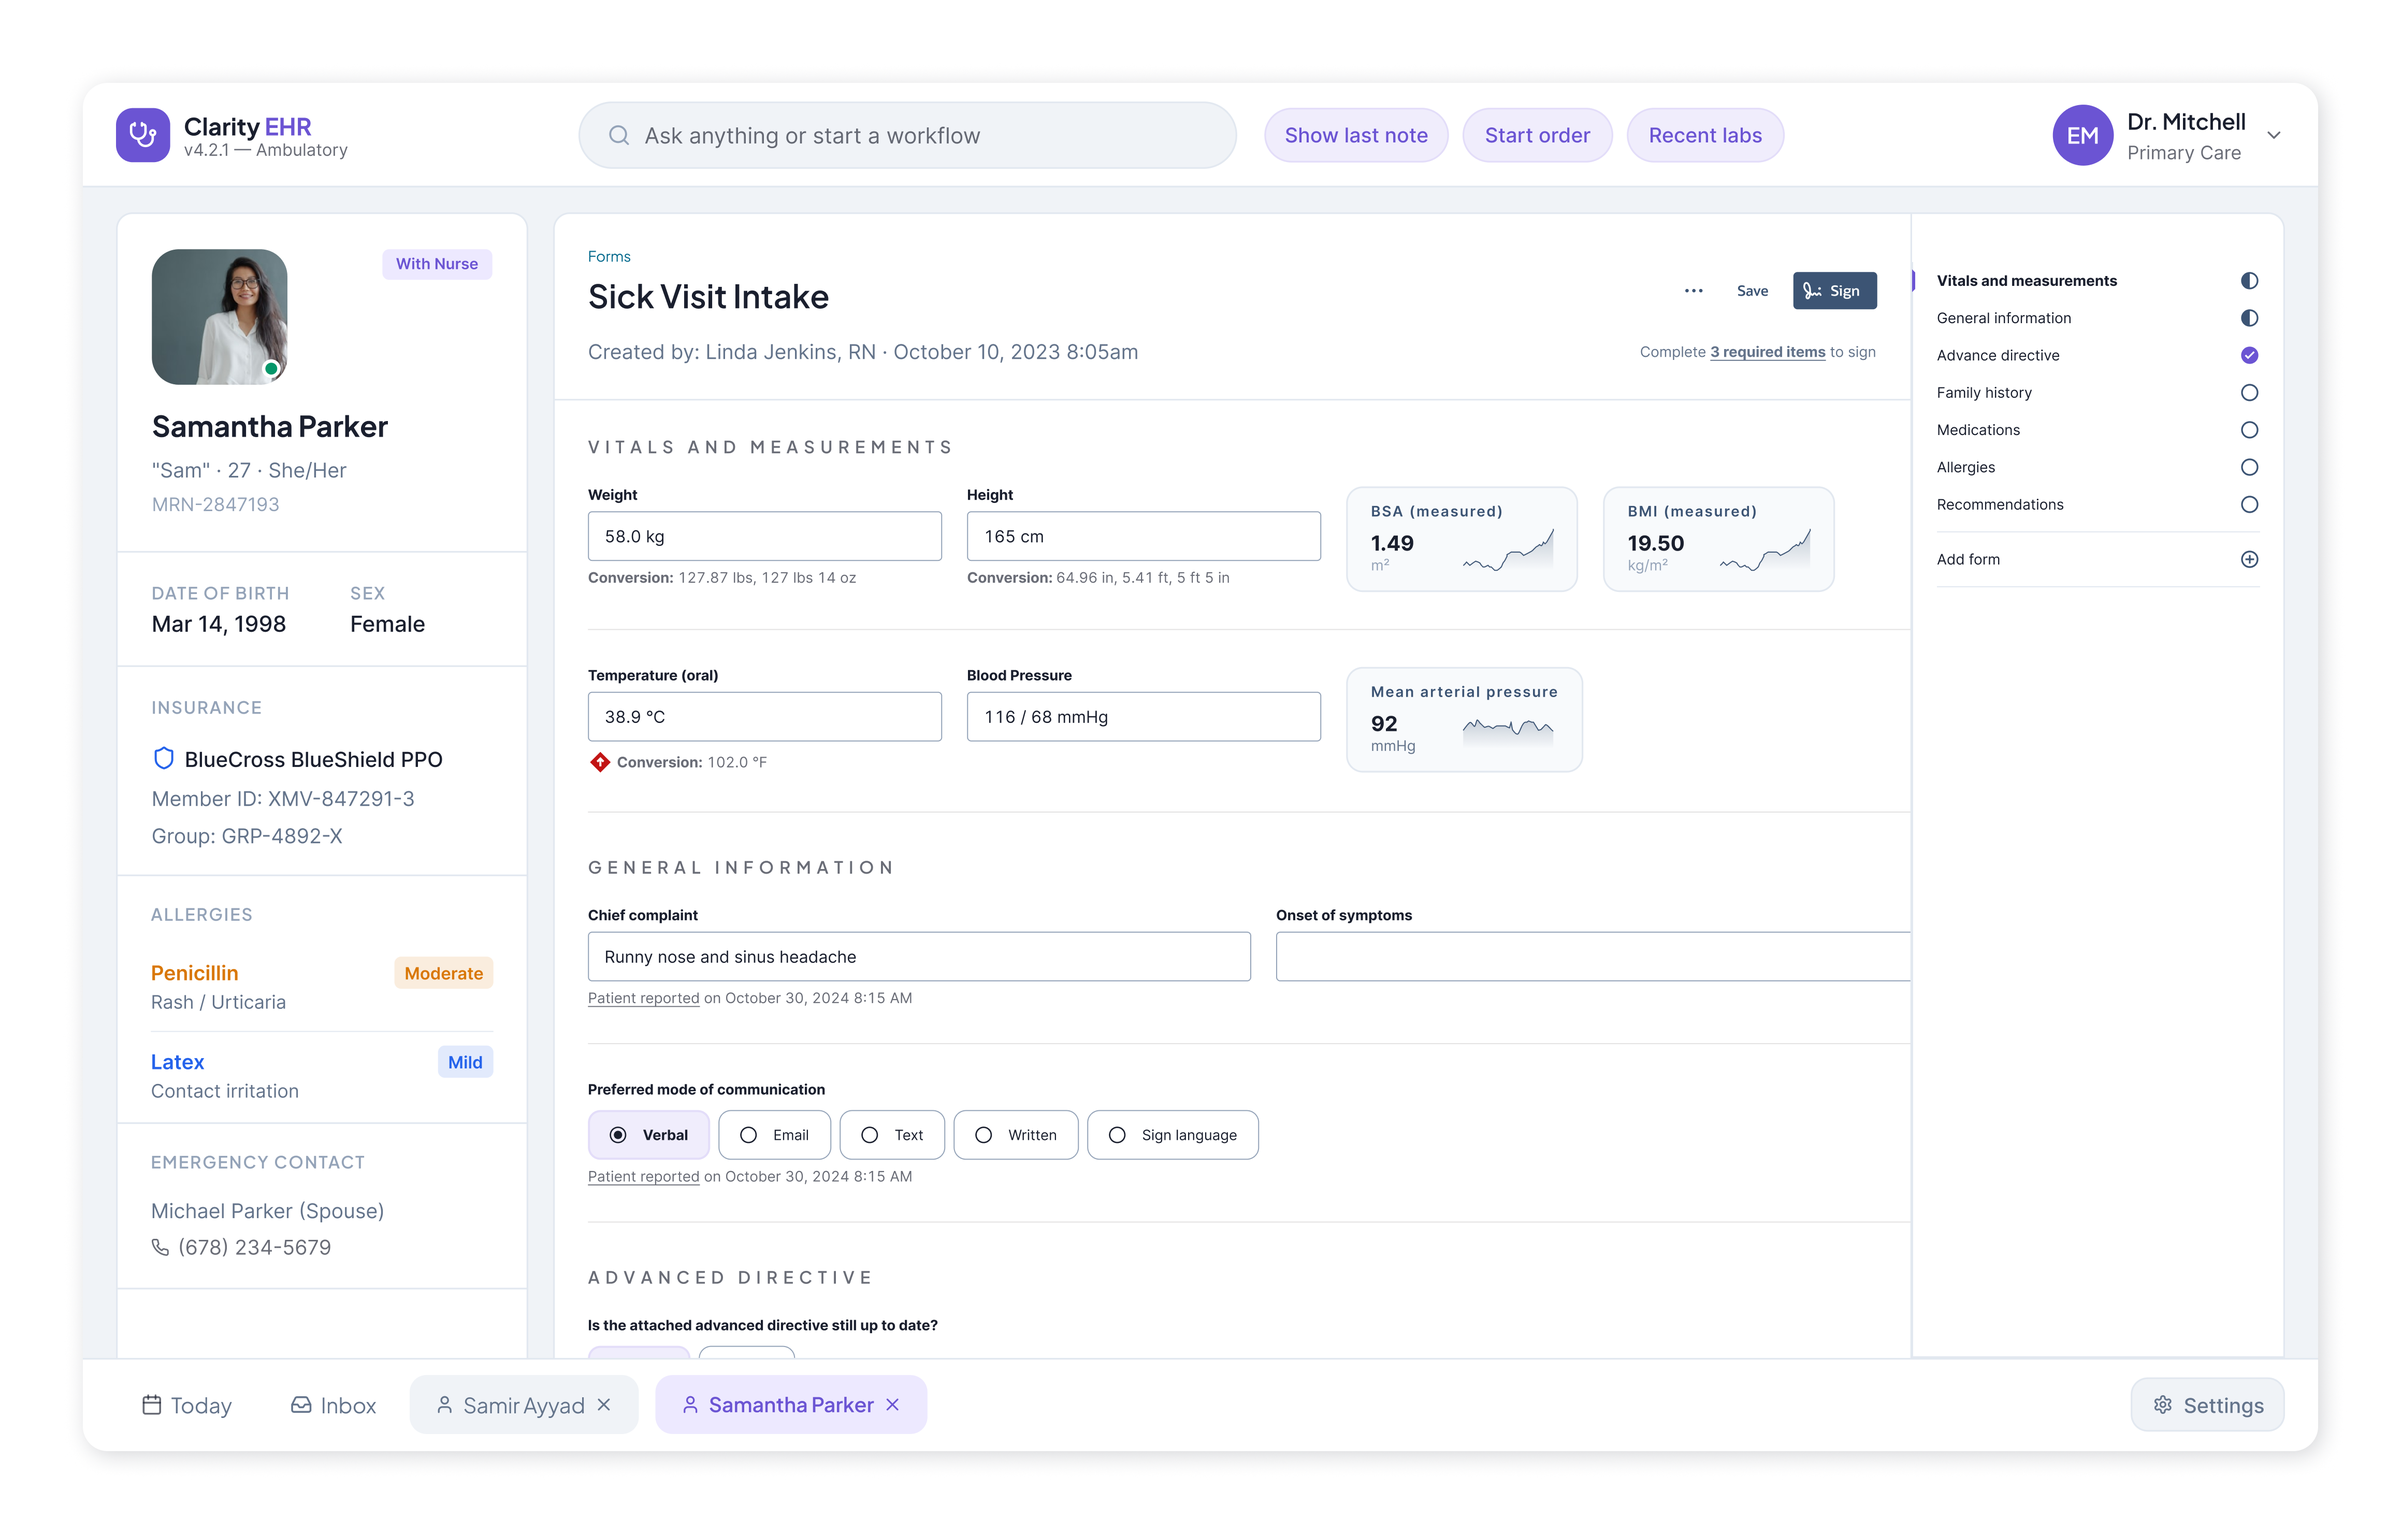
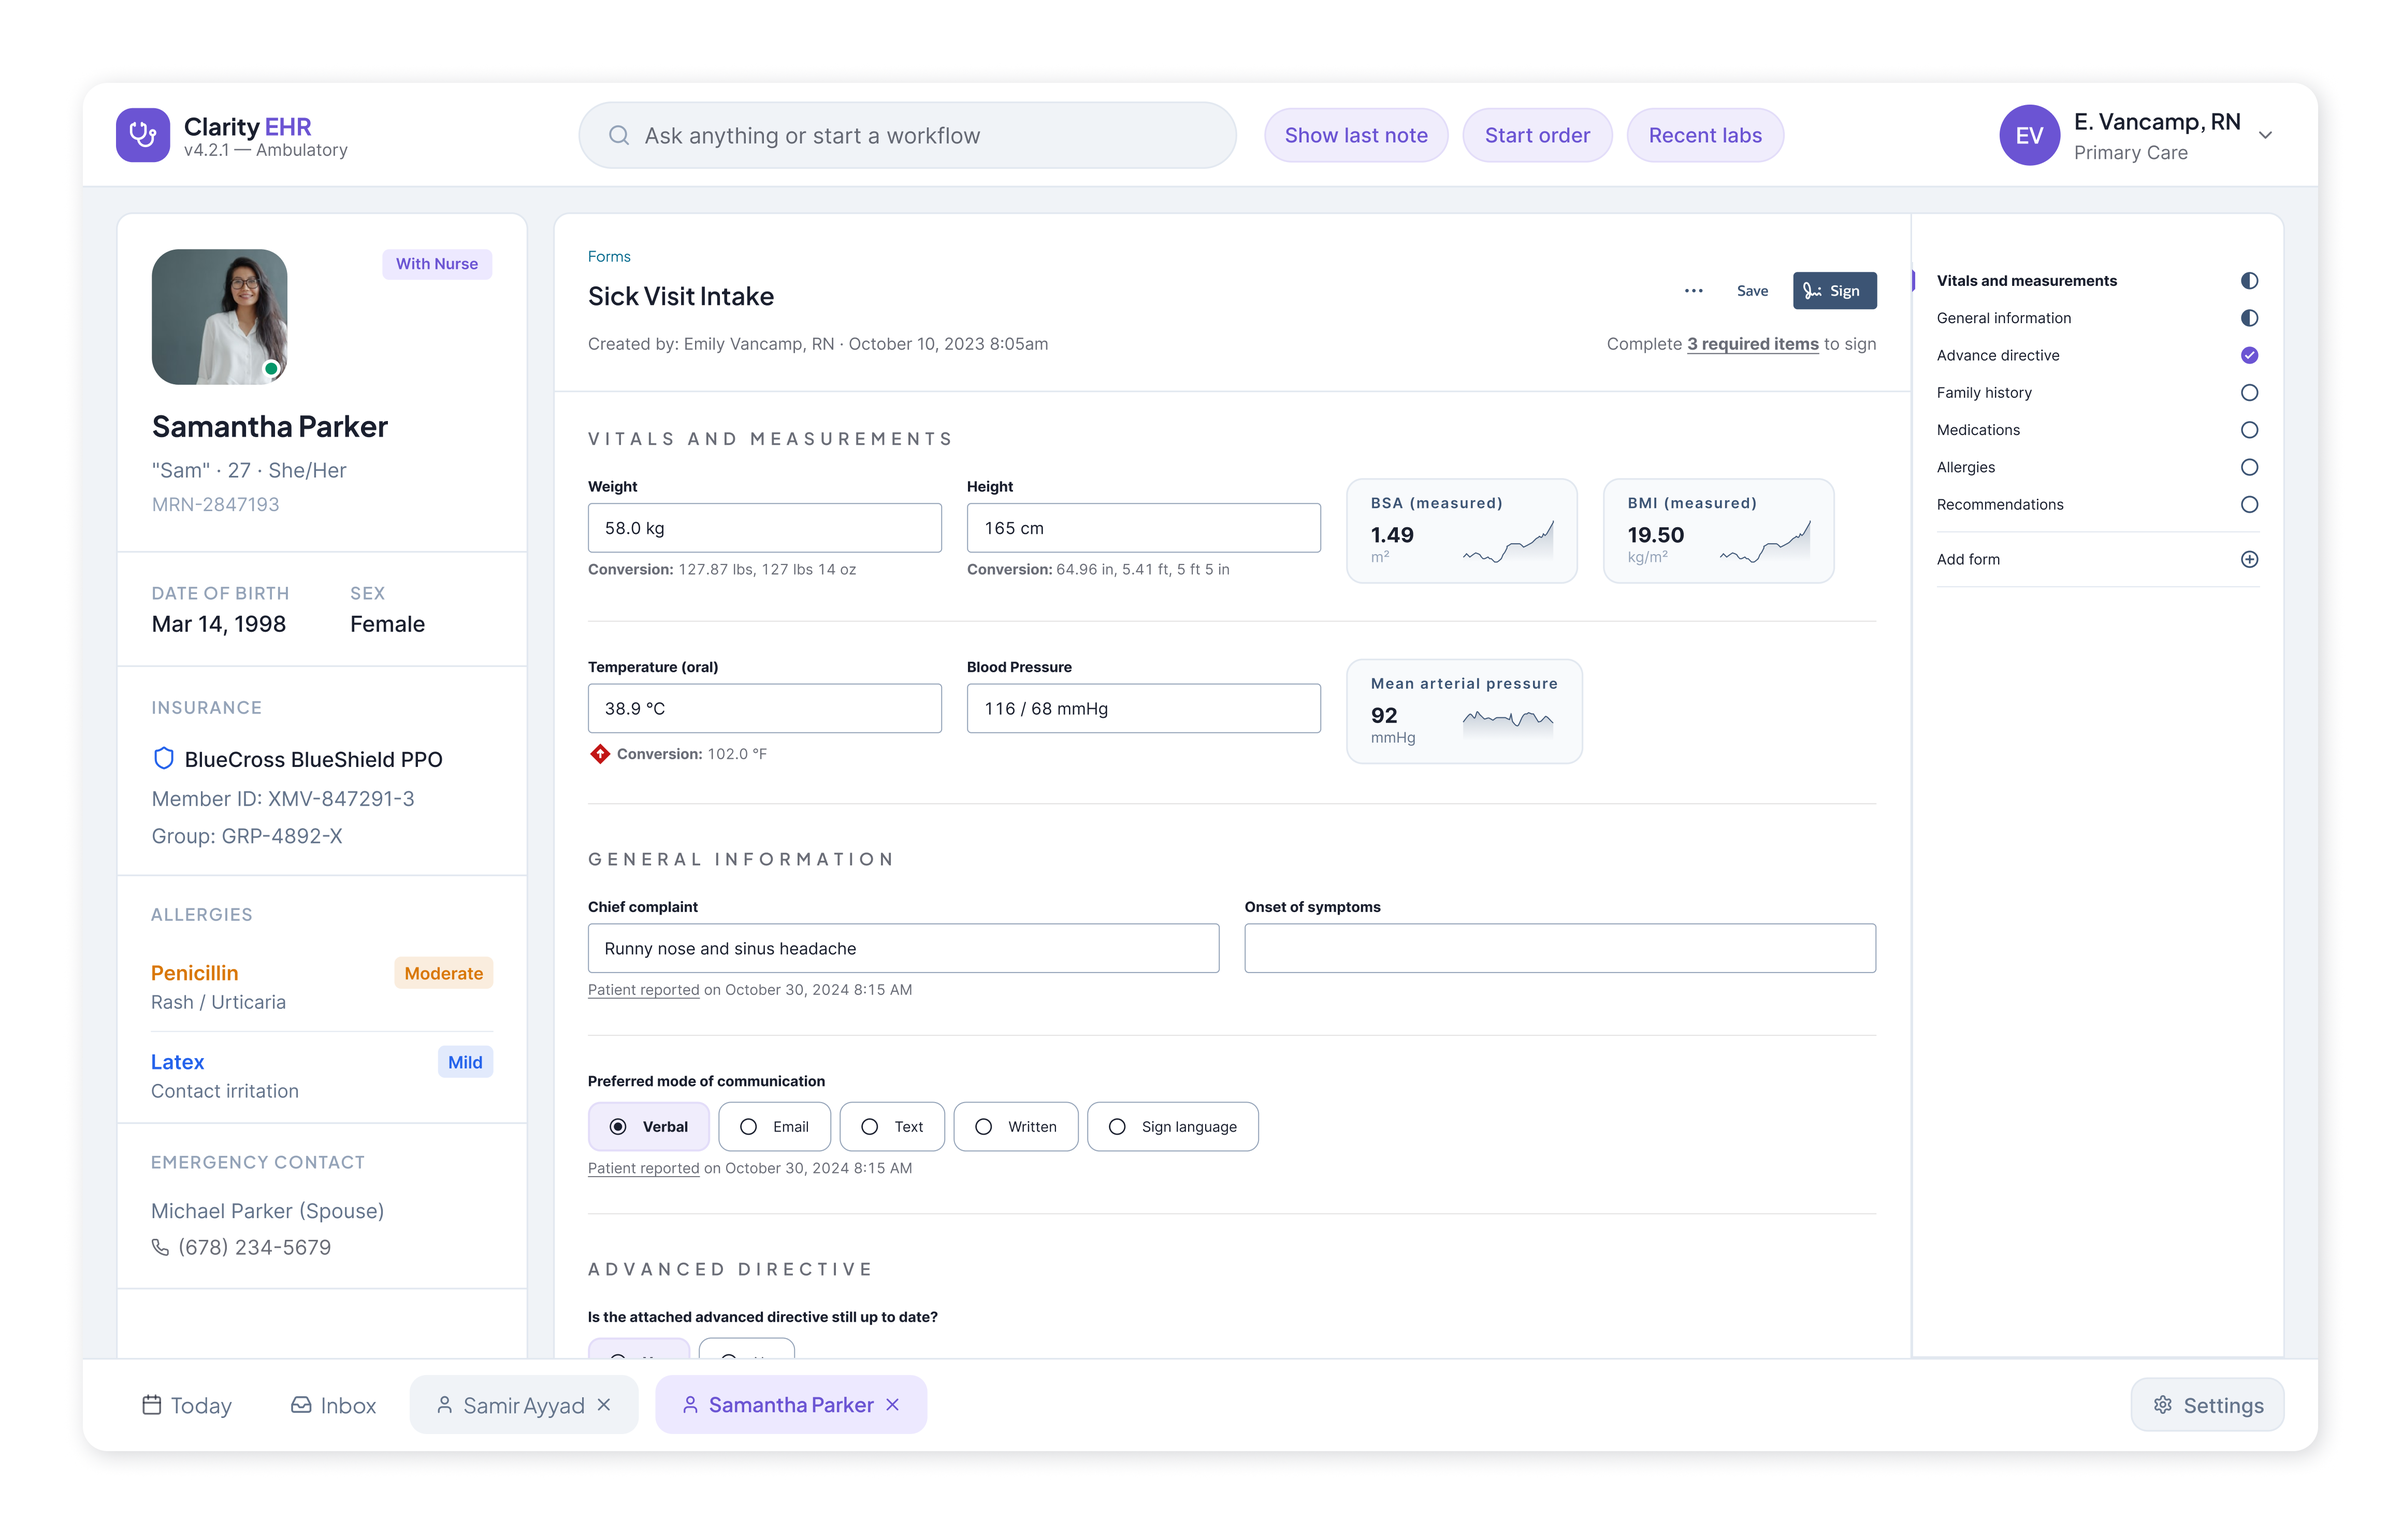
Add some images

diff --git a/oracleclinical.html b/oracleclinical.html
@@ -113,17 +113,9 @@
       <h3>04 Raising Quality Bar</h3>
       <p>Another learning from my physician partner is that since the transition to electronic health records, physician notes have gotten <b>worse,</b> not better.  For repeat visits or long-term treatments, it became common practice to duplicate the old note and write more on top. EHR notes have grown 60% longer and 11% more redundant over the last few years. <a hred="https://www.techtarget.com/searchhealthit/news/366579094/Growing-Length-of-EHR-Clinical-Notes-Raises-Clinician-Burnout-Concerns">[3]</a></p>
       <h4> I saw an opportunity to improve the quality of note outcomes, not just the experience of making them, by integrating Oracle’s biggest differentiator - our AI capabilities.</h4>
-      <p>
-      </p>
       <img src="clinical/multimodal.png" alt="Diagram of the different modalities of note-writing">
-
-        <div class="keebr-columns">
-          <div clas="pcol"> <h4>Allowing doctors to securely sign it into record with one click.</h4> </div>
-          <div class="pcol"> <img src="clinical/sign.gif" style="border-radius:8px; box-shadow: 1px 1px 6px #D2D2DE;
-"></div>
-        </div>
-
-
+      <h4>Allowing doctors to securely sign it into record with one click.</h4>
+      <img src="clinical/sign.gif" style="border-radius:8px; box-shadow: 1px 1px 6px #D2D2DE;">
     </div>
 
     <div class="spacer"></div>
@@ -138,7 +130,7 @@
           <div clas="pcol"> <h4> A sequential wizard experience for queueing up form sets, and quick keyboard macros for entry and navigation. </h4> </div>
         </div>
         <div class="keebr-columns">
-          <div class="pcol"> <h4> Fill redundant fields and uptake the patient's last answer automatically to remove repetitive entry. </h4> </div>
+          <div class="pcol"> <h4> Fill redundant fields and intelligently uptake the patient's last answer, to remove repetitive entry. </h4> </div>
           <div class="pcol"> <img src="clinical/prefill.png"></div>
         </div>
         <div class="keebl-columns">
@@ -168,11 +160,44 @@
     </div>
 
     <div class="divider"></div>
+    
     <footer class="footer reveal">
+
       <div class="foot-left"><p>thanks for sticking around! hope you liked my work◝(⑅•ᴗ•⑅)◜<br> i love talking design, tech, and digital art! hit me on <a href="https://www.linkedin.com/in/eviemitchelldesign/" style="text-decoration: underline;">linkedin</a> or <a href="mailto:eviemitch@gmail.com" style="text-decoration: underline;">email</a> to connect <3</p></div>
       <div class="foot-right">🧗♀ <a href="#" style="text-decoration: underline;">back to top! </a></div>
+</footer>
+<!--
+    <footer class="feet">
+        <span style="float:left;"><p>thanks for sticking around! hope you liked my work◝(⑅•ᴗ•⑅)◜<br> i love talking design, tech, and digital art! hit me on <a href="https://www.linkedin.com/in/eviemitchelldesign/" style="text-decoration: underline;">linkedin</a> or <a href="mailto:eviemitch@gmail.com" style="text-decoration: underline;">email</a> to connect <3 </p></span>
+        <span style="float:right;"><p>  🧗♀ <a href="#" style="text-decoration: underline;">back to top! </a></p></span>
+        <footer class="footer"></footer>
     </footer>
 
-  </div>
+
+    <footer class="feet">
+        <div class="farewell"><p>thanks for sticking around! hope you liked my work◝(⑅•ᴗ•⑅)◜<br> i love talking design, tech, and digital art! hit me on <a href="https://www.linkedin.com/in/eviemitchelldesign/" style="text-decoration: underline;">linkedin</a> or <a href="mailto:eviemitch@gmail.com" style="text-decoration: underline;">email</a> to connect <3 </p></div>
+        <div class="climb"><p>  🧗♀ <a href="#" style="text-decoration: underline;">back to top! </a></p></div>
+        <footer class="footer"></footer>
+    </footer>
+
+        <footer class="feet">
+          <div class="farewell"><p>thanks for sticking around! hope you liked my work◝(⑅•ᴗ•⑅)◜<br> i love talking design, tech, and digital art! hit me on <a href="https://www.linkedin.com/in/eviemitchelldesign/" style="text-decoration: underline;">linkedin</a> or <a href="mailto:eviemitch@gmail.com" style="text-decoration: underline;">email</a> to connect <3</p></div>
+          <div class="climb">🧗♀ <a href="#" style="text-decoration: underline;"> back to top! </a></div>
+        </footer>
+
+    <div class="divider"></div>
+    <footer class="footer reveal">
+      <div class="TRYfooter-content">
+<span style="float:left;"><p>thanks for sticking around! hope you liked my work◝(⑅•ᴗ•⑅)◜<br> i love talking design, tech, and digital art! hit me on <a href="https://www.linkedin.com/in/eviemitchelldesign/" style="text-decoration: underline;">linkedin</a> or <a href="mailto:eviemitch@gmail.com" style="text-decoration: underline;">email</a> to connect <3 </p></span>
+<span style="float:right;"><p>  🧗♀ <a href="#" style="text-decoration: underline;">back to top! </a></p></span>
+    </div>
+    </footer>
+    <div class="divider"></div>
+
+        <div class="foot-left" style="float:left;"><p>thanks for sticking around! hope you liked my work◝(⑅•ᴗ•⑅)◜<br> i love talking design, tech, and digital art! hit me on <a href="https://www.linkedin.com/in/eviemitchelldesign/" style="text-decoration: underline;">linkedin</a> or <a href="mailto:eviemitch@gmail.com" style="text-decoration: underline;">email</a> to connect <3 </p></div>
+        <div class="foot-right" style="float:right;"><p>  🧗♀ <a href="#" style="text-decoration: underline;">back to top! </a></p></div>
+  
+  </div> -->
+
 </body>
 </html>

diff --git a/style.css b/style.css
@@ -304,6 +304,7 @@ a:hover {
 .footer {
   background-color: var(--bg);
   display: flex;
+  max-width: var(--width);
   width: 100%;
   margin: 0 auto;
   padding-top: 1rem;
@@ -312,6 +313,21 @@ a:hover {
   position: relative;
   bottom:0;
   font-family: karla, sans-serif;
+}
+  .feet {
+      padding-top: 1rem;
+      min-height: 100px;
+      width:100%;
+  text-align: left;
+  padding-bottom: 6rem;
+  }
+
+.farewell {
+   float:left;
+}
+
+.climb {
+  float:right;
 }
 
 .foot-left {
@@ -600,36 +616,68 @@ h4 {
     align-items: center;  /* centering text vertically in <div> */
     display: block;
   }
-  .footer {
+  .feet {
     background-color: var(--bg);
     display: block;
-    width: 90%;
-    margin: 0 auto;
+    width: 100%;
     padding-top: 1rem;
     padding-bottom: 6rem;
     overflow: hidden;
     position: relative;
     bottom:0;
     font-family: karla, sans-serif;
-  }
-  .overview {
-    display: block;
-    margin: 0 auto;
-    padding: 1rem;
-    padding-bottom: 6rem;
+    align-items: left;
   }
 
+  .farewell {
+    margin-right: auto;
+    line-height: 1.5rem;
+    padding: 1rem;
+    font-weight: 400;
+    text-align: top;
+  }
+
+  .climb {
+    padding: 1rem;
+    text-align: top;
+    margin-left: auto;
+    float:left;
+
+  }
+
+  .footer {
+    background-color: var(--bg);
+    display: block;
+    width: 100%;
+    padding-top: 1rem;
+    padding-bottom: 6rem;
+    overflow: hidden;
+    position: relative;
+    bottom:0;
+    font-family: karla, sans-serif;
+    align-items: left;
+  }
   .foot-left {
     margin-right: auto;
     line-height: 1.5rem;
     padding: 1rem;
     font-weight: 400;
+    text-align: top;
+
   }
 
   .foot-right {
     padding: 1rem;
     text-align: center;
     margin-left: auto;
+  }
+
+
+  .overview {
+    display: block;
+    margin: 0 auto;
+    padding: 1rem;
+    padding-bottom: 6rem;
   }
 
   .xp-image {

diff --git a/index.html b/index.html
@@ -48,7 +48,7 @@
           <p>April 2024 - September 2025</p>
           </div>
           <div class="xp-image">
-            <img src="clinical/anonchart.png" alt="Oracle health position cover image, with an anonymized design of an EHR">
+            <img src="clinical/cover.png" alt="Oracle health position cover image, with an anonymized design of an EHR">
           </div>
         </div> </a>
         <a href="oracleintern.html" id="oracleintern"><div class="xp-card reveal">
